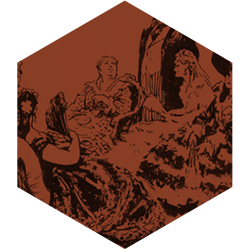
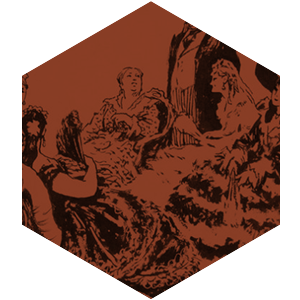
Resize Legacy

diff --git a/InteractiveTable/Pages/Legacy.xaml b/InteractiveTable/Pages/Legacy.xaml
@@ -4,35 +4,44 @@
       xmlns:mc="http://schemas.openxmlformats.org/markup-compatibility/2006" 
       xmlns:d="http://schemas.microsoft.com/expression/blend/2008" 
       mc:Ignorable="d" 
-      d:DesignHeight="300" d:DesignWidth="300" Width="1600" Height="900">
-
+      d:DesignHeight="300" d:DesignWidth="300" Width="1920" Height="1080">
     <Canvas>
         <Canvas.Background>
             <ImageBrush ImageSource="/InteractiveTable;component/Images/Legacy/LegacyBackground.png"/>
         </Canvas.Background>
 
-        <Button x:Name="back_button" Template="{DynamicResource BackButtonTemplate}" Foreground="White" Click="Back_Button_Click" Canvas.Left="60" Canvas.Top="795"/>
+        <Button x:Name="back_button" Template="{DynamicResource BackButtonTemplate}" Foreground="White" Click="Back_Button_Click" Canvas.Left="75" Canvas.Top="955" FocusVisualStyle="{x:Null}"/>
 
-        <Button x:Name="rules_of_life_button" Template="{DynamicResource HexagonButtonTemplate}" Content="/InteractiveTable;component/Images/Legacy/RulesOfLife.png" Tag="{DynamicResource l_RulesOfLife}" MinWidth="180"
-                FontFamily="/InteractiveTable;component/Fonts/#Basil Bold"  FontSize="24" Foreground="White" Click="Rules_Of_Life_Button_Click"  Width="250" Height="250" Padding="15,0" Canvas.Left="10" Canvas.Top="45"/>
-        <Button x:Name="trilogy_button" Template="{DynamicResource HexagonButtonTemplate}" Content="/InteractiveTable;component/Images/Legacy/Trilogy.png" Tag="{DynamicResource l_Trilogy}" MinWidth="180"
-                FontFamily="/InteractiveTable;component/Fonts/#Basil Bold"  FontSize="24" Foreground="White" Click="Trilogy_Button_Click"  Width="250" Height="250" Padding="15,0" Canvas.Left="245" Canvas.Top="45"/>
-        <Button x:Name="diary_button" Template="{DynamicResource HexagonButtonTemplate}" Content="/InteractiveTable;component/Images/Legacy/Diary.png" Tag="{DynamicResource l_Diary}" MinWidth="180"
-                FontFamily="/InteractiveTable;component/Fonts/#Basil Bold"  FontSize="24" Foreground="White" Click="Diary_Button_Click"  Width="250" Height="250" Padding="15,0" Canvas.Left="125" Canvas.Top="245"/>
-        <Button x:Name="memories_button" Template="{DynamicResource HexagonButtonTemplate}" Content="/InteractiveTable;component/Images/Legacy/Memories.png" Tag="{DynamicResource l_Memories}" MinWidth="200"
-                FontFamily="/InteractiveTable;component/Fonts/#Basil Bold"  FontSize="24" Foreground="White" Click="Memories_Button_Click"  Width="250" Height="250" Padding="15,0" Canvas.Left="360" Canvas.Top="245"/>
-        <Button x:Name="morning_button" Template="{DynamicResource HexagonButtonTemplate}" Content="/InteractiveTable;component/Images/Legacy/MorningLandowner.png" Tag="{DynamicResource l_MorningLandowner}" MinWidth="180"
-                FontFamily="/InteractiveTable;component/Fonts/#Basil Bold"  FontSize="24" Foreground="White" Click="Morning_Button_Click"  Width="250" Height="250" Padding="15,0" Canvas.Left="245" Canvas.Top="450"/>
+        <!--Left-->
+        <Button x:Name="rules_of_life_button" Template="{DynamicResource HexagonButtonTemplate}" Content="/InteractiveTable;component/Images/Legacy/RulesOfLife.png" Tag="{DynamicResource l_RulesOfLife}" MinWidth="200" FocusVisualStyle="{x:Null}"
+                FontFamily="/InteractiveTable;component/Fonts/#Basil Bold"  FontSize="28" Foreground="White" Click="Rules_Of_Life_Button_Click"  Width="300" Height="300" Padding="20,0" Canvas.Left="10" Canvas.Top="50"/>
 
-        <Button x:Name="cossacks_button" Template="{DynamicResource HexagonButtonTemplate}" Content="/InteractiveTable;component/Images/Legacy/Cossacks.png" Tag="{DynamicResource l_Cossacks}" MinWidth="180"
-                FontFamily="/InteractiveTable;component/Fonts/#Basil Bold"  FontSize="24" Foreground="White" Click="Cossacks_Button_Click"  Width="250" Height="250" Padding="15,0" Canvas.Left="1110" Canvas.Top="45"/>
-        <Button x:Name="war_and_peace_button" Template="{DynamicResource HexagonButtonTemplate}" Content="/InteractiveTable;component/Images/Legacy/WarAndPeace.png" Tag="{DynamicResource l_WarAndPeace}" MinWidth="90"
-                FontFamily="/InteractiveTable;component/Fonts/#Basil Bold"  FontSize="24" Foreground="White" Click="War_And_Peace_Button_Click"  Width="250" Height="250" Padding="15,0" Canvas.Left="1350" Canvas.Top="45"/>
-        <Button x:Name="after_ball_button" Template="{DynamicResource HexagonButtonTemplate}" Content="/InteractiveTable;component/Images/Legacy/AfterBall.png" Tag="{DynamicResource l_AfterBall}" MinWidth="90"
-                FontFamily="/InteractiveTable;component/Fonts/#Basil Bold"  FontSize="24" Foreground="White" Click="After_Ball_Button_Click"  Width="250" Height="250" Padding="15,0" Canvas.Left="990" Canvas.Top="245"/>
-        <Button x:Name="yule_night_button" Template="{DynamicResource HexagonButtonTemplate}" Content="/InteractiveTable;component/Images/Legacy/YuleNight.png" Tag="{DynamicResource l_YuleNight}" MinWidth="180"
-                FontFamily="/InteractiveTable;component/Fonts/#Basil Bold"  FontSize="24" Foreground="White" Click="Yule_Night_Button_Click"  Width="250" Height="250" Padding="15,0" Canvas.Left="1225" Canvas.Top="245"/>
-        <Button x:Name="oasis_button" Template="{DynamicResource HexagonButtonTemplate}" Content="/InteractiveTable;component/Images/Legacy/Oasis.png" Tag="{DynamicResource l_Oasis}" MinWidth="180"
-                FontFamily="/InteractiveTable;component/Fonts/#Basil Bold"  FontSize="24" Foreground="White" Click="Oasis_Button_Click"  Width="250" Height="250" Padding="15,0" Canvas.Left="1110" Canvas.Top="450"/>
+        <Button x:Name="trilogy_button" Template="{DynamicResource HexagonButtonTemplate}" Content="/InteractiveTable;component/Images/Legacy/Trilogy.png" Tag="{DynamicResource l_Trilogy}" MinWidth="200" FocusVisualStyle="{x:Null}"
+                FontFamily="/InteractiveTable;component/Fonts/#Basil Bold"  FontSize="28" Foreground="White" Click="Trilogy_Button_Click"  Width="300" Height="300" Padding="20,0" Canvas.Left="295" Canvas.Top="50"/>
+
+        <Button x:Name="diary_button" Template="{DynamicResource HexagonButtonTemplate}" Content="/InteractiveTable;component/Images/Legacy/Diary.png" Tag="{DynamicResource l_Diary}" MinWidth="200" FocusVisualStyle="{x:Null}"
+                FontFamily="/InteractiveTable;component/Fonts/#Basil Bold"  FontSize="28" Foreground="White" Click="Diary_Button_Click"  Width="300" Height="300" Padding="20,0" Canvas.Left="155" Canvas.Top="295"/>
+
+        <Button x:Name="memories_button" Template="{DynamicResource HexagonButtonTemplate}" Content="/InteractiveTable;component/Images/Legacy/Memories.png" Tag="{DynamicResource l_Memories}" MinWidth="250" FocusVisualStyle="{x:Null}"
+                FontFamily="/InteractiveTable;component/Fonts/#Basil Bold"  FontSize="28" Foreground="White" Click="Memories_Button_Click"  Width="300" Height="300" Padding="20,0" Canvas.Left="435" Canvas.Top="295"/>
+
+        <Button x:Name="morning_button" Template="{DynamicResource HexagonButtonTemplate}" Content="/InteractiveTable;component/Images/Legacy/MorningLandowner.png" Tag="{DynamicResource l_MorningLandowner}" MinWidth="200" FocusVisualStyle="{x:Null}"
+                FontFamily="/InteractiveTable;component/Fonts/#Basil Bold"  FontSize="28" Foreground="White" Click="Morning_Button_Click"  Width="300" Height="300" Padding="20,0" Canvas.Left="295" Canvas.Top="540"/>
+
+        <!--Rigth-->
+        <Button x:Name="cossacks_button" Template="{DynamicResource HexagonButtonTemplate}" Content="/InteractiveTable;component/Images/Legacy/Cossacks.png" Tag="{DynamicResource l_Cossacks}" MinWidth="200" FocusVisualStyle="{x:Null}"
+                FontFamily="/InteractiveTable;component/Fonts/#Basil Bold"  FontSize="28" Foreground="White" Click="Cossacks_Button_Click"  Width="300" Height="300" Padding="20,0" Canvas.Left="1330" Canvas.Top="50"/>
+
+        <Button x:Name="war_and_peace_button" Template="{DynamicResource HexagonButtonTemplate}" Content="/InteractiveTable;component/Images/Legacy/WarAndPeace.png" Tag="{DynamicResource l_WarAndPeace}" MinWidth="100" FocusVisualStyle="{x:Null}"
+                FontFamily="/InteractiveTable;component/Fonts/#Basil Bold"  FontSize="28" Foreground="White" Click="War_And_Peace_Button_Click"  Width="300" Height="300" Padding="20,0" Canvas.Left="1615" Canvas.Top="50"/>
+
+        <Button x:Name="after_ball_button" Template="{DynamicResource HexagonButtonTemplate}" Content="/InteractiveTable;component/Images/Legacy/AfterBall.png" Tag="{DynamicResource l_AfterBall}" MinWidth="100" FocusVisualStyle="{x:Null}"
+                FontFamily="/InteractiveTable;component/Fonts/#Basil Bold"  FontSize="28" Foreground="White" Click="After_Ball_Button_Click"  Width="300" Height="300" Padding="20,0" Canvas.Left="1190" Canvas.Top="295"/>
+
+        <Button x:Name="yule_night_button" Template="{DynamicResource HexagonButtonTemplate}" Content="/InteractiveTable;component/Images/Legacy/YuleNight.png" Tag="{DynamicResource l_YuleNight}" MinWidth="200" FocusVisualStyle="{x:Null}"
+                FontFamily="/InteractiveTable;component/Fonts/#Basil Bold"  FontSize="28" Foreground="White" Click="Yule_Night_Button_Click"  Width="300" Height="300" Padding="20,0" Canvas.Left="1470" Canvas.Top="295"/>
+
+        <Button x:Name="oasis_button" Template="{DynamicResource HexagonButtonTemplate}" Content="/InteractiveTable;component/Images/Legacy/Oasis.png" Tag="{DynamicResource l_Oasis}" MinWidth="200" FocusVisualStyle="{x:Null}"
+                FontFamily="/InteractiveTable;component/Fonts/#Basil Bold"  FontSize="28" Foreground="White" Click="Oasis_Button_Click"  Width="300" Height="300" Padding="20,0" Canvas.Left="1330" Canvas.Top="540"/>
     </Canvas>
 </Page>
